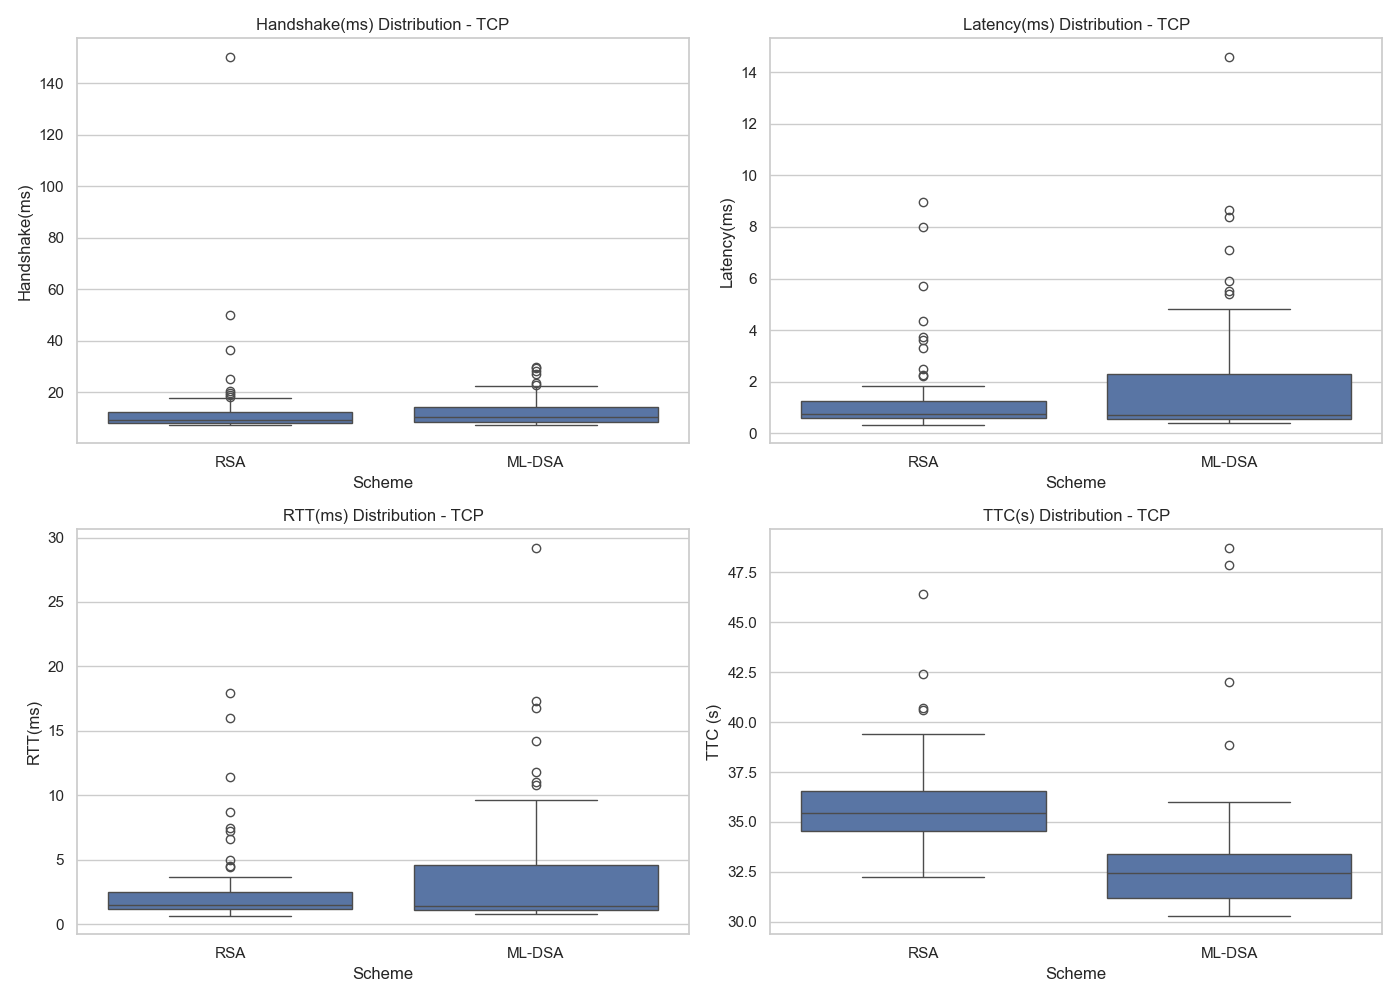
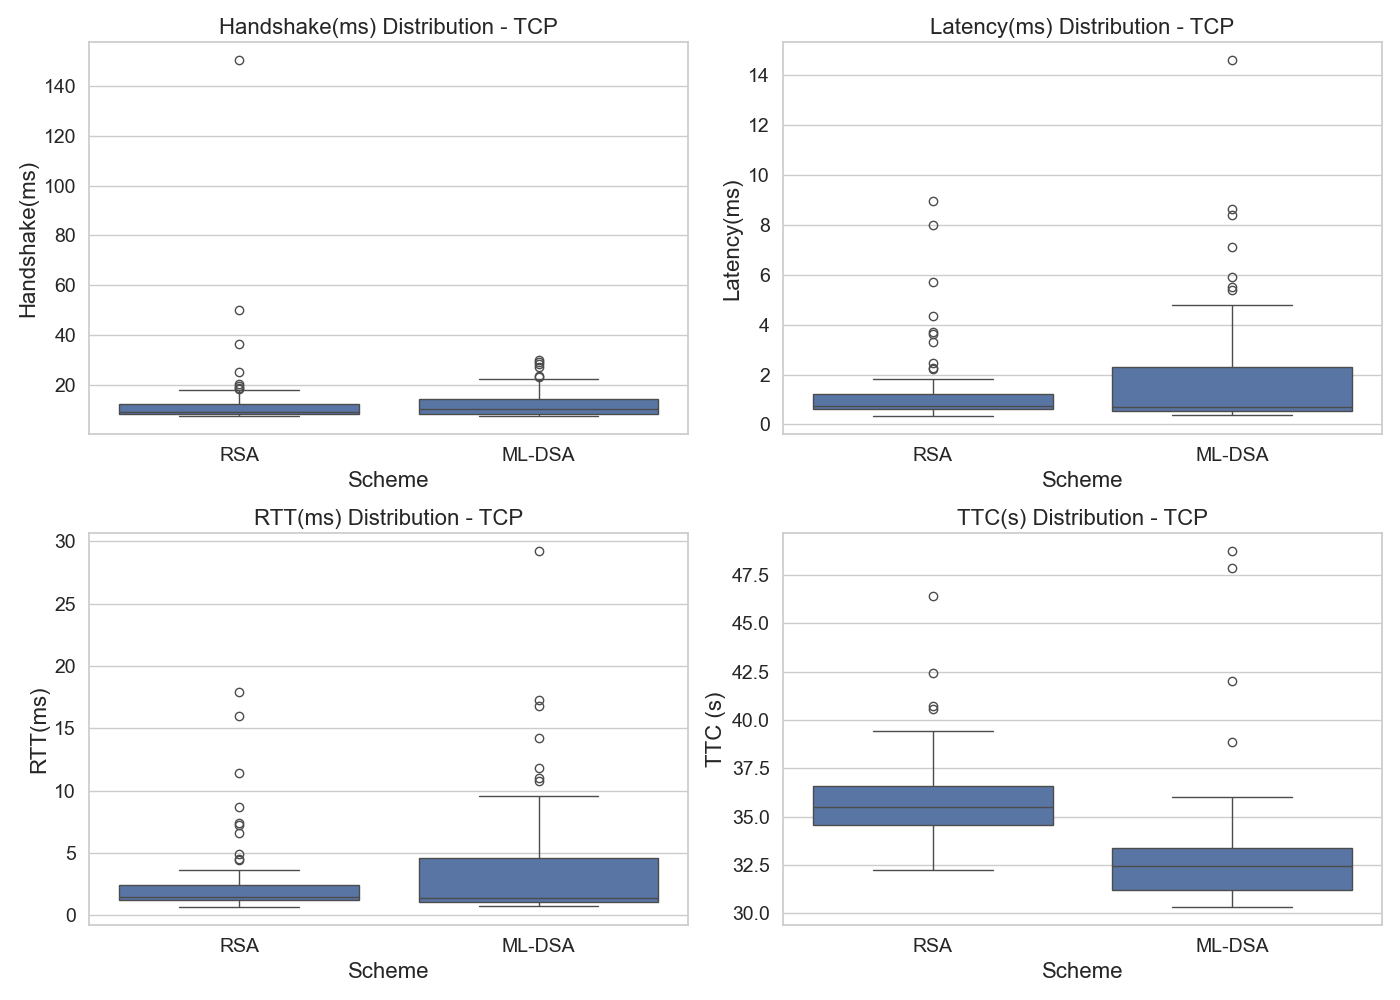
Font Size Updated

diff --git a/Final-Implementation-GO/Output/plot.py b/Final-Implementation-GO/Output/plot.py
@@ -76,10 +76,11 @@ def plot_time_series_server(data, protocol):
             if metric in df.columns:
                 ax.plot(df['Elapsed(s)'], df[metric],
                         label=format_scheme_label(scheme))
-        ax.set_title(f'{metric} over Time - {protocol.upper()}')
-        ax.set_xlabel('Elapsed Time (s)')
-        ax.set_ylabel(metric)
-        ax.legend()
+        ax.set_title(f'{metric} over Time - {protocol.upper()}', fontsize=16)
+        ax.set_xlabel('Elapsed Time (s)', fontsize=16)
+        ax.set_ylabel(metric, fontsize=16)
+        ax.tick_params(axis='both', labelsize=14)
+        ax.legend(fontsize=14)
 
     plt.tight_layout()
     plt.savefig(os.path.join(OUTPUT_DIR, f'server_time_series_{protocol}.png'))
@@ -102,7 +103,11 @@ def plot_box_server(data, protocol):
         ax = axs[positions[idx]]
         if metric in df_all.columns:
             sns.boxplot(x='Scheme', y=metric, data=df_all, ax=ax)
-            ax.set_title(f'{metric} Distribution - {protocol.upper()}')
+            ax.set_title(
+                f'{metric} Distribution - {protocol.upper()}', fontsize=16)
+            ax.set_xlabel('Scheme', fontsize=16)
+            ax.set_ylabel(metric, fontsize=16)
+            ax.tick_params(axis='both', labelsize=14)
 
     plt.tight_layout()
     plt.savefig(os.path.join(OUTPUT_DIR, f'server_boxplot_{protocol}.png'))
@@ -119,7 +124,6 @@ def plot_time_series_client(data, protocol):
         for scheme in SCHEMES:
             df = data[scheme].copy()
 
-            # Convert TTC(ms) explicitly to seconds here and adjust label/title
             if metric == 'TTC(ms)':
                 y = df[metric] / 1000
                 label = f'{scheme.replace("-logs", "").upper()}'
@@ -132,10 +136,12 @@ def plot_time_series_client(data, protocol):
                 title_metric = metric
 
             ax.plot(y.reset_index(drop=True), label=label)
-        ax.set_title(f'{title_metric} Time Series - {protocol.upper()}')
-        ax.set_xlabel('Trial')
-        ax.set_ylabel(ylabel)
-        ax.legend()
+        ax.set_title(
+            f'{title_metric} Time Series - {protocol.upper()}', fontsize=16)
+        ax.set_xlabel('Trial', fontsize=16)
+        ax.set_ylabel(ylabel, fontsize=16)
+        ax.tick_params(axis='both', labelsize=14)
+        ax.legend(fontsize=14)
 
     plt.tight_layout()
     plt.savefig(os.path.join(OUTPUT_DIR, f'client_time_series_{protocol}.png'))
@@ -150,7 +156,6 @@ def plot_box_client(data, protocol):
     df_combined = []
     for scheme in SCHEMES:
         df = data[scheme].copy()
-        # Convert TTC(ms) explicitly here
         if 'TTC(ms)' in df.columns:
             df['TTC(s)'] = df['TTC(ms)'] / 1000
             df.drop(columns=['TTC(ms)'], inplace=True)
@@ -159,22 +164,23 @@ def plot_box_client(data, protocol):
 
     df_all = pd.concat(df_combined)
 
-    # Now plot using updated column names with TTC(s)
     plot_metrics = ['Handshake(ms)', 'Latency(ms)', 'RTT(ms)', 'TTC(s)']
 
     for idx, metric in enumerate(plot_metrics):
         ax = axs[positions[idx]]
         if metric in df_all.columns:
             ylabel = metric
-            # Adjust ylabel/title for TTC(s)
             title_metric = metric
             if metric == 'TTC(s)':
                 title_metric = 'TTC(s)'
                 ylabel = 'TTC (s)'
 
             sns.boxplot(x='Scheme', y=metric, data=df_all, ax=ax)
-            ax.set_title(f'{title_metric} Distribution - {protocol.upper()}')
-            ax.set_ylabel(ylabel)
+            ax.set_title(
+                f'{title_metric} Distribution - {protocol.upper()}', fontsize=16)
+            ax.set_xlabel('Scheme', fontsize=16)
+            ax.set_ylabel(ylabel, fontsize=16)
+            ax.tick_params(axis='both', labelsize=14)
 
     plt.tight_layout()
     plt.savefig(os.path.join(OUTPUT_DIR, f'client_boxplot_{protocol}.png'))
